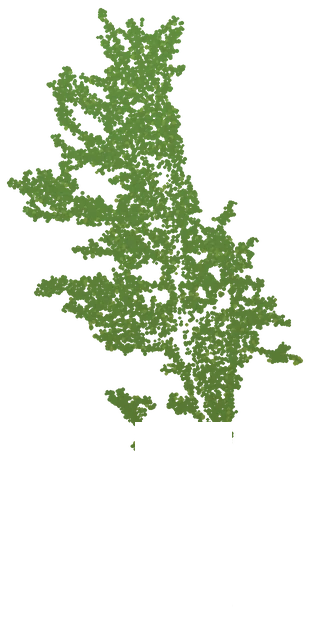
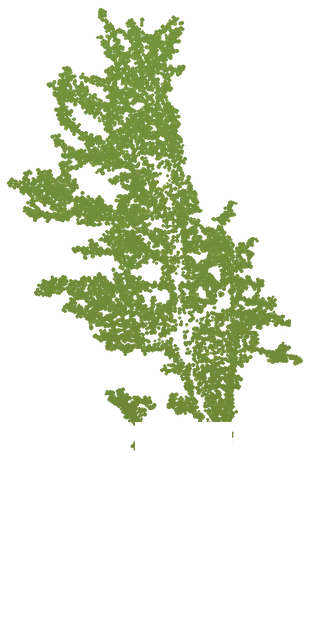
fix(3d): 辽东栎动图再裁 60px，彻底去掉顶部错误树种名；包围盒同步

diff --git a/3d/index.html b/3d/index.html
@@ -1627,7 +1627,7 @@
 			yousong: [443, 11, 252, 611], hutaqiu: [282, 11, 575, 542],
 			luoyesong: [463, 11, 212, 610], wujiaofeng: [359, 11, 420, 554],
 			shanyang: [438, 11, 261, 613], huangbo: [354, 11, 430, 589],
-			liaodongli: [351, 0, 436, 533]
+			liaodongli: [351, 0, 436, 473]
 		};
 		var TC = null;
 		function treeCard() {
